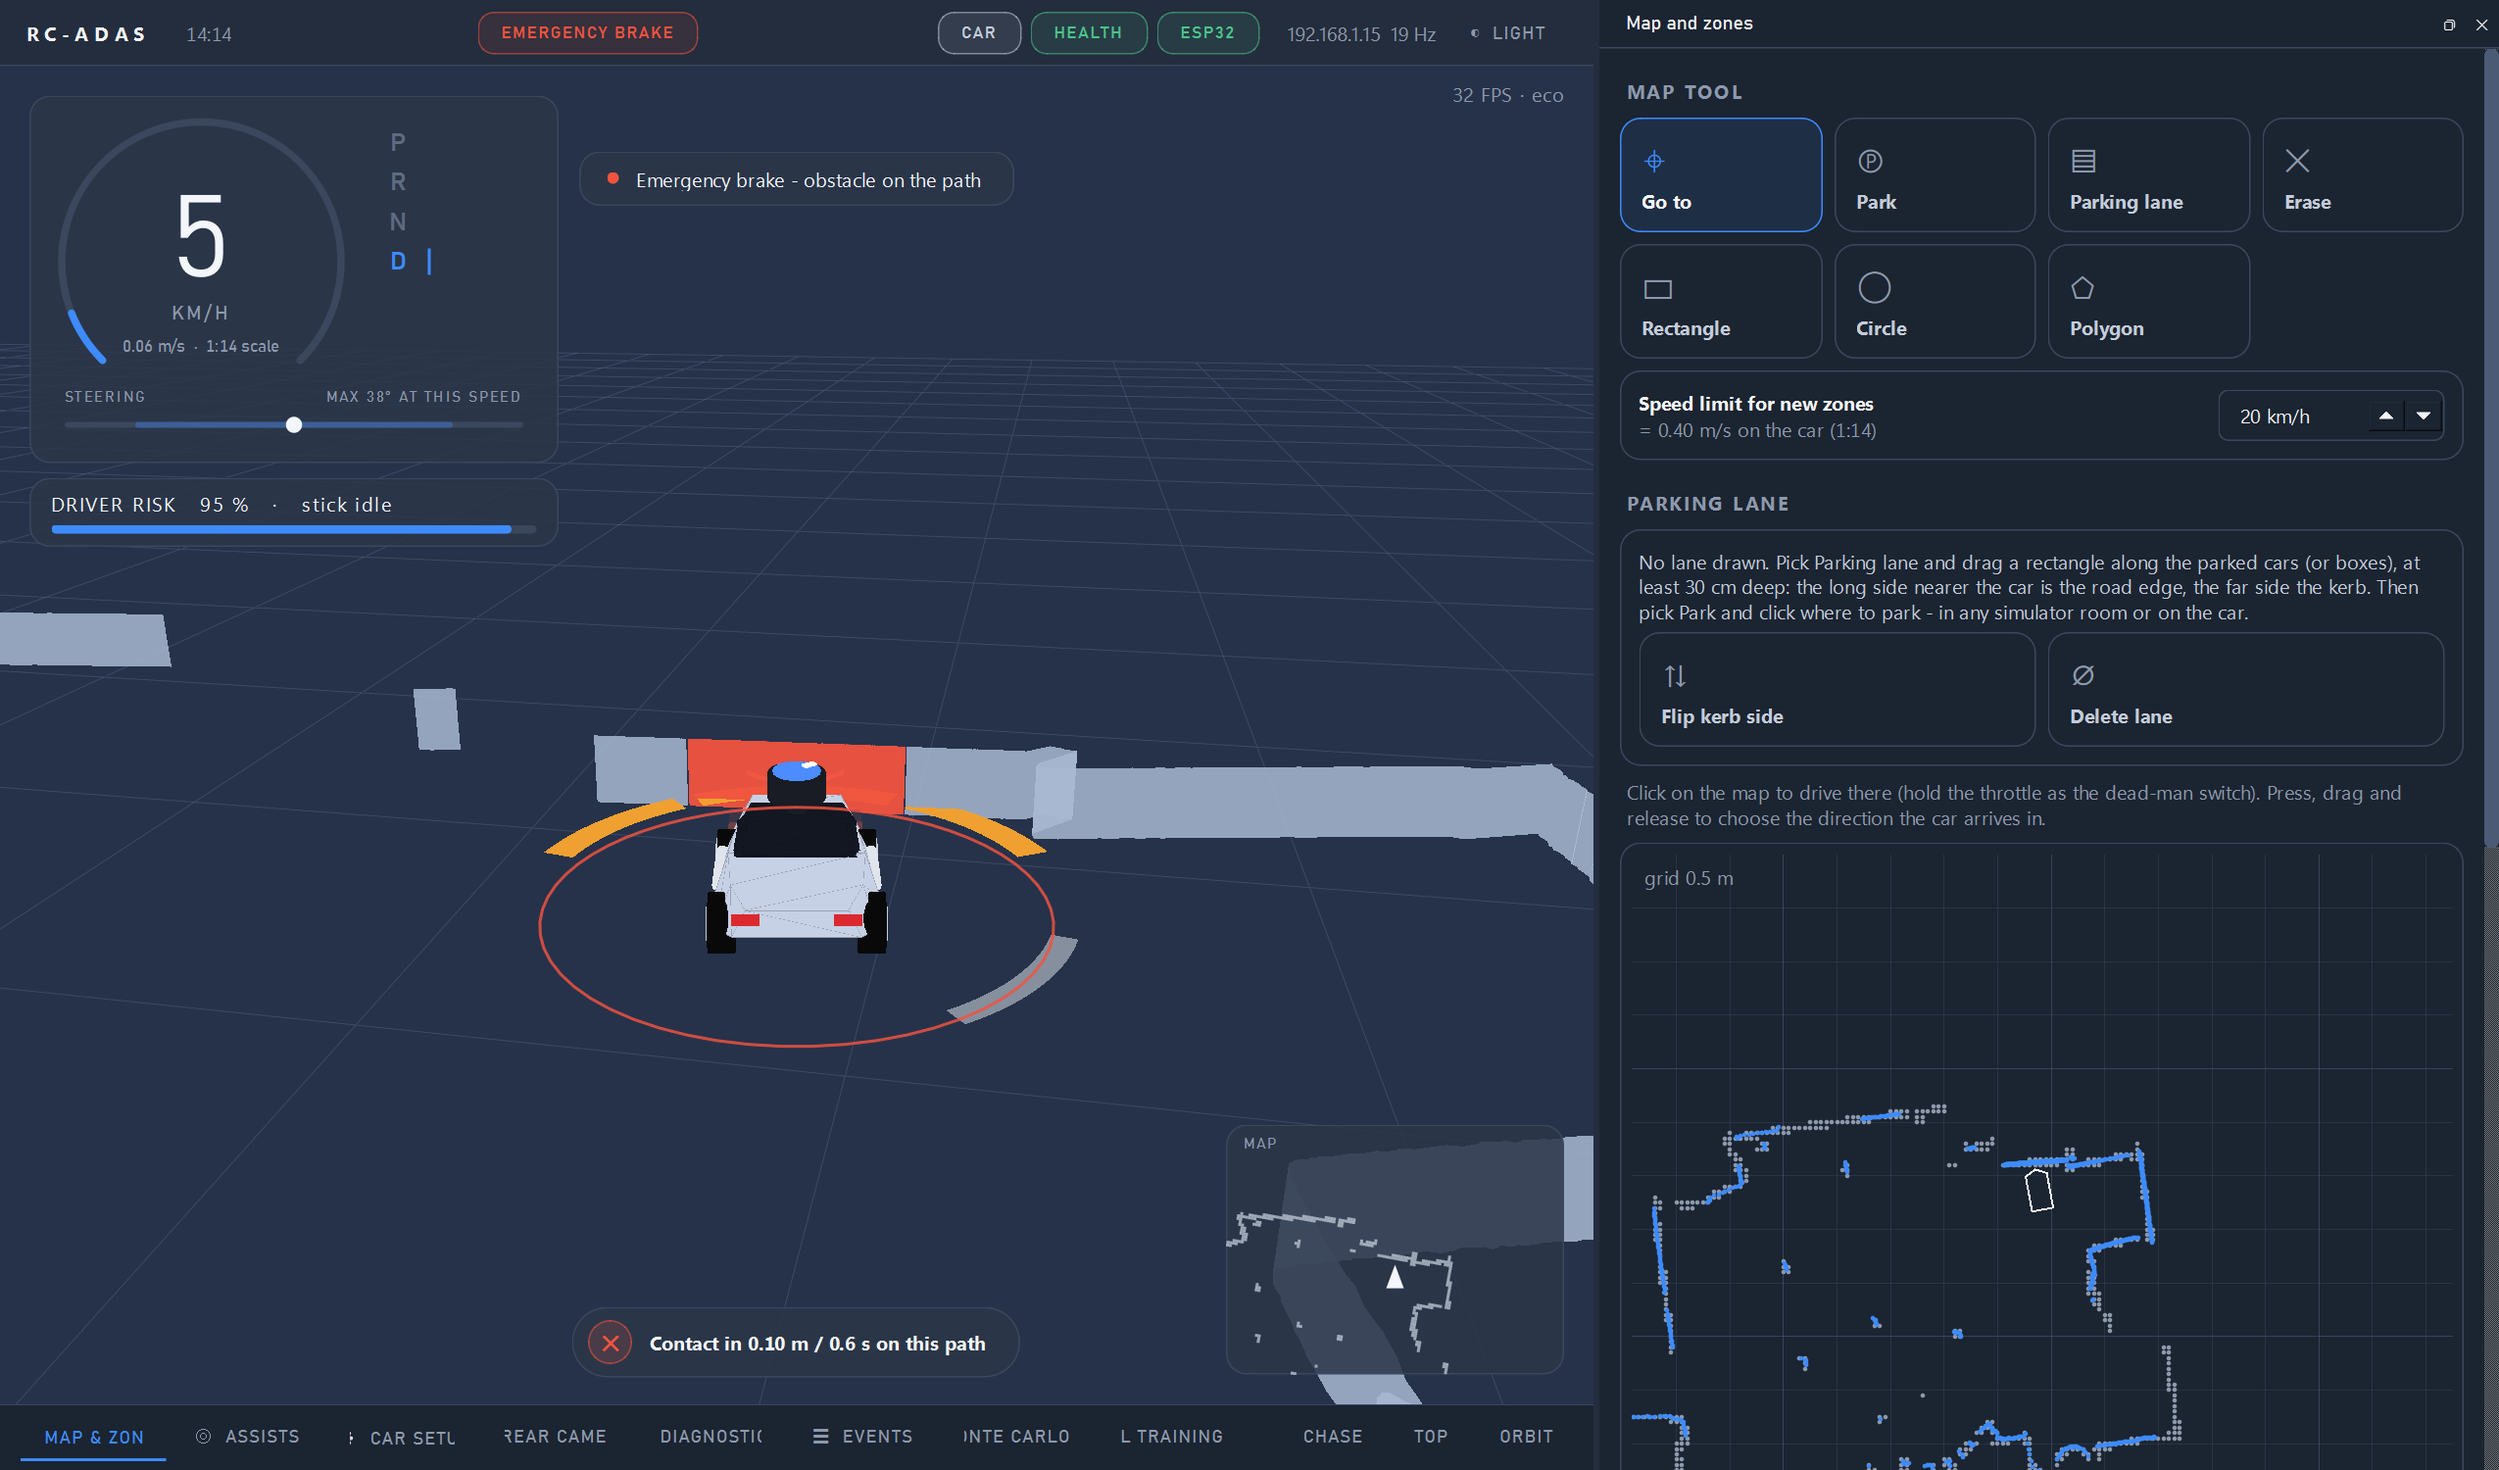
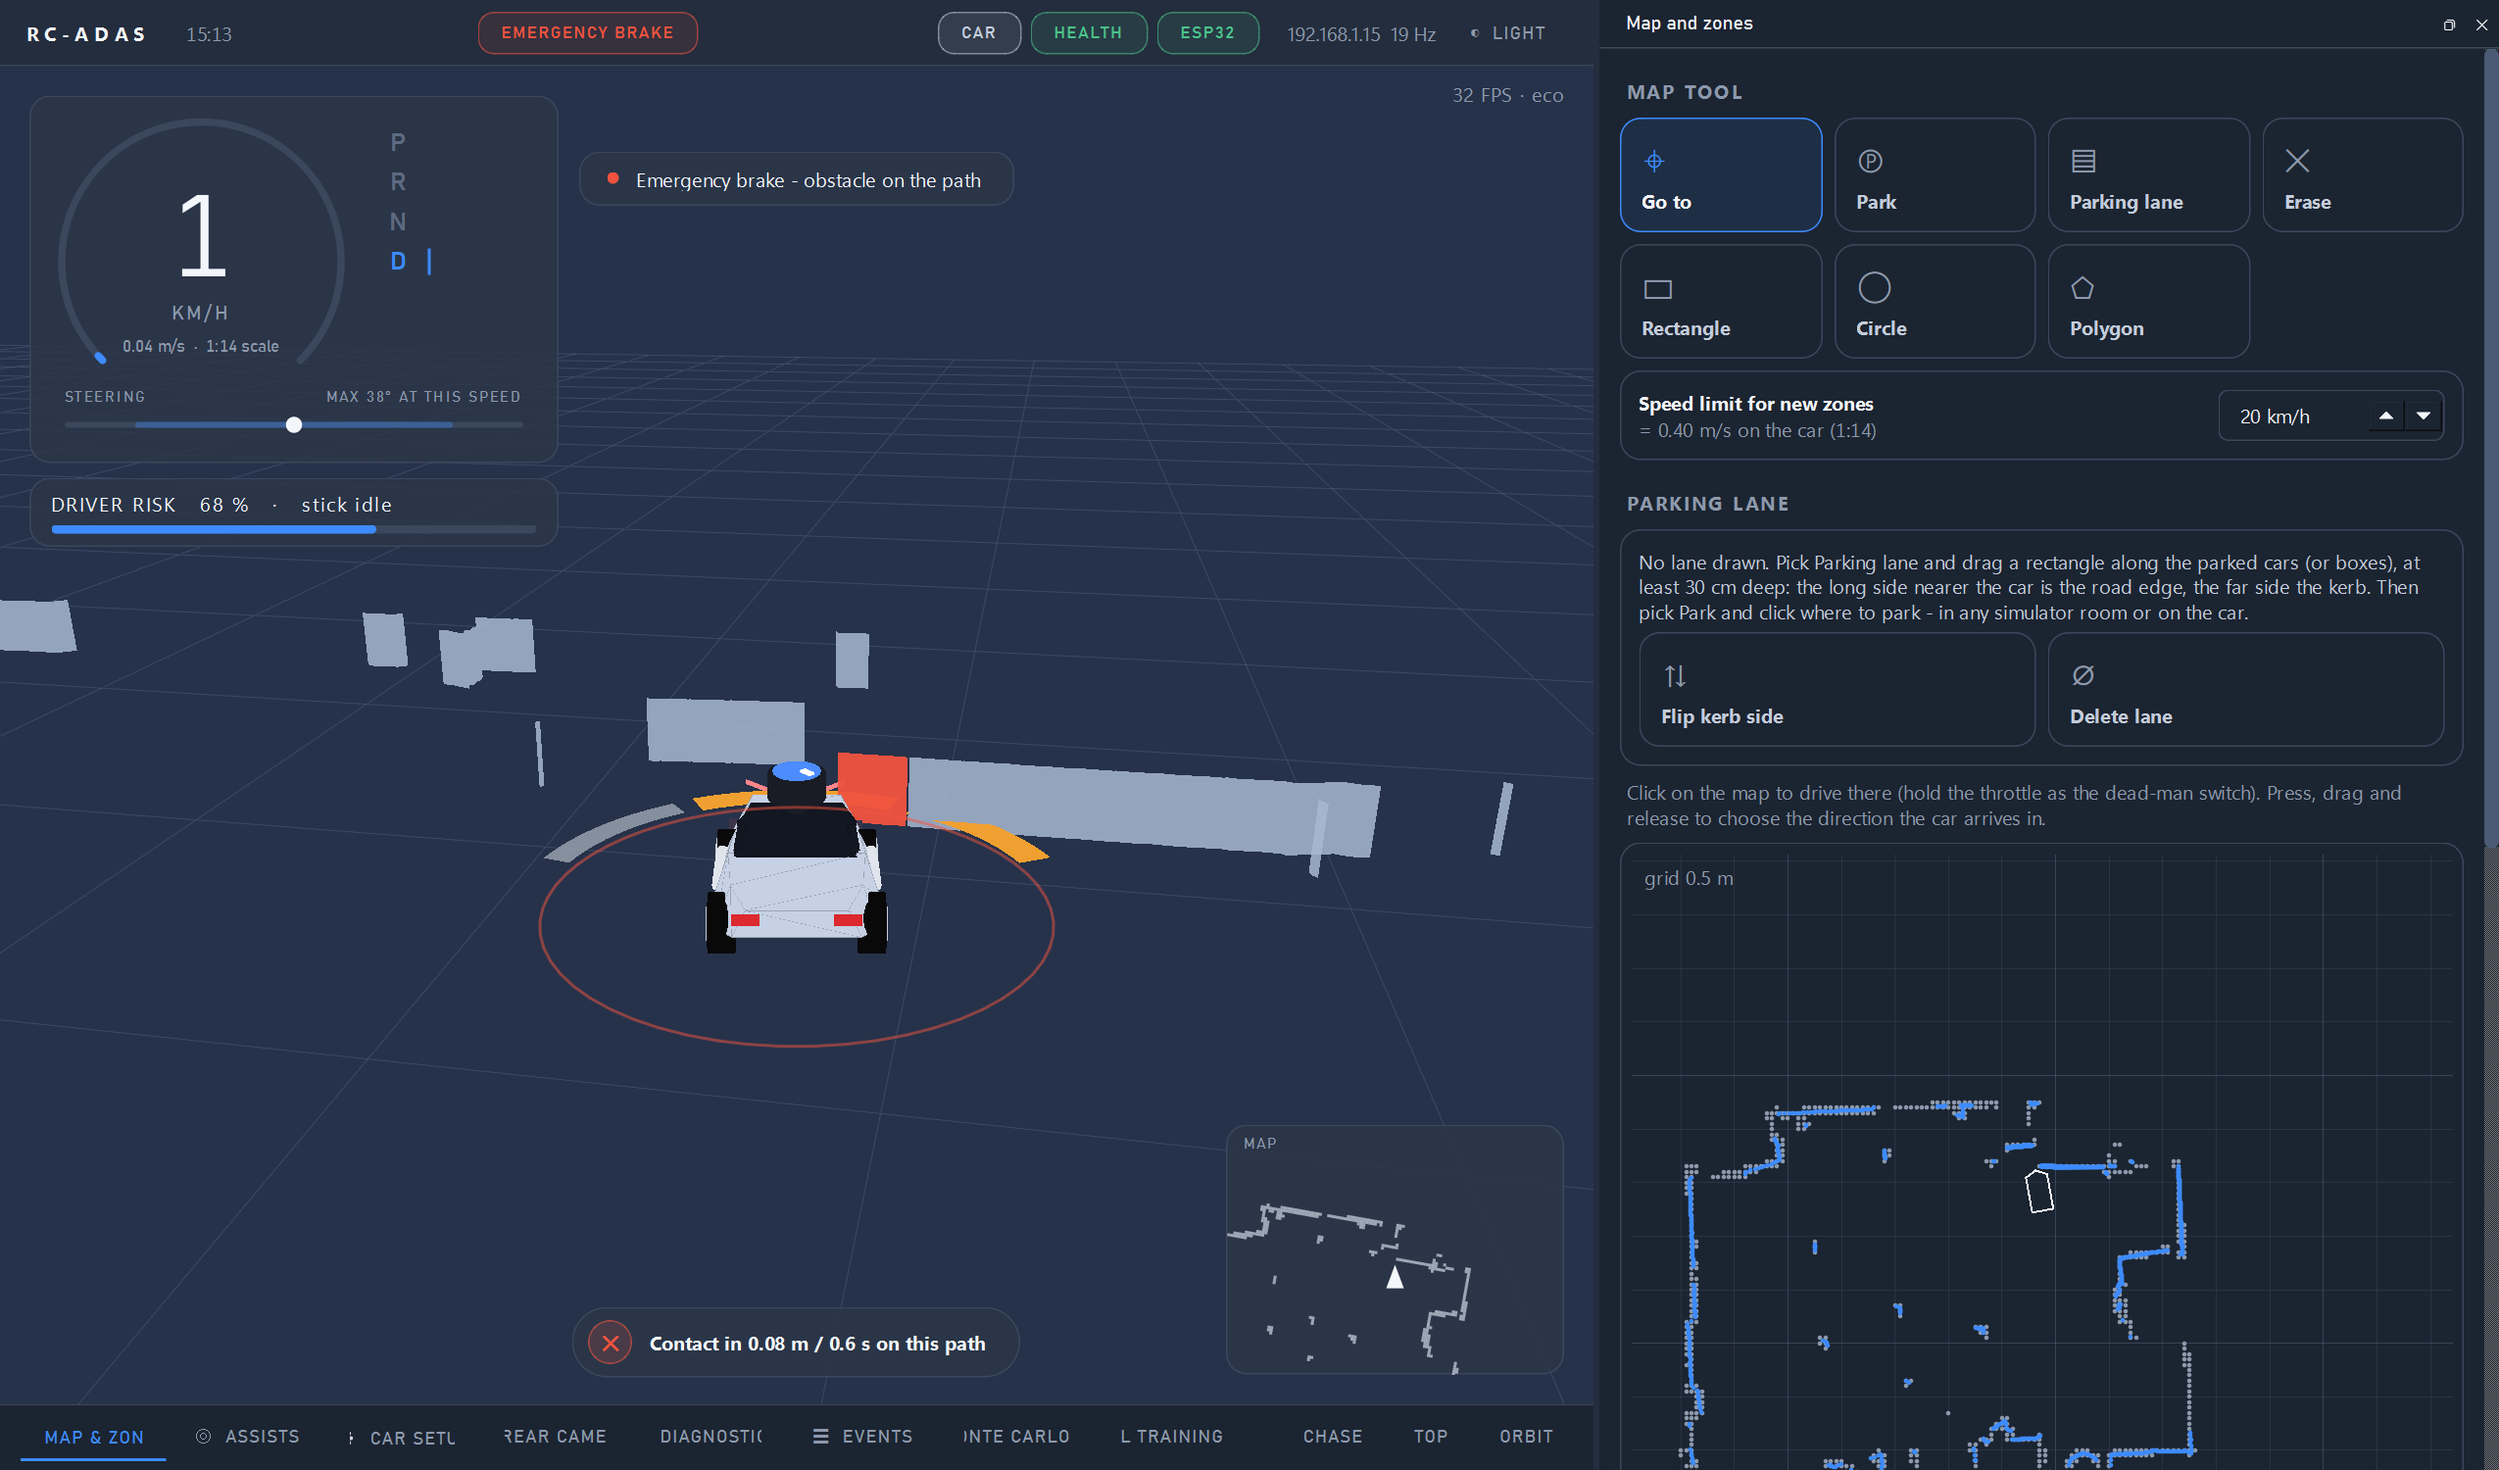
Car checks 14 Oct: gate-only brake test passed (6.8 cm), memory fix deployed

diff --git a/src/adas_project/tools/car_ui_test.py b/src/adas_project/tools/car_ui_test.py
@@ -169,8 +169,10 @@ SCENARIOS = {"idle": idle, "steer": steer, "brake": brake, "reverse": reverse}
 def main():
     ap = argparse.ArgumentParser()
     ap.add_argument("--host", required=True)
+    ap.add_argument("--near", type=float, default=NEAR_M, help="the test's own bumper cut (m)")
     ap.add_argument("names", nargs="*", default=["idle", "steer", "brake", "reverse"])
     a = ap.parse_args()
+    globals()["NEAR_M"] = a.near
     import gui.ev as EV
     os.makedirs(OUT, exist_ok=True)
     EV.ZONES_FILE = os.path.join(OUT, "zones_test.json")      # the user's gui/zones.json is never written

diff --git a/src/adas_project/docs/TODO.md b/src/adas_project/docs/TODO.md
@@ -984,7 +984,10 @@ the car finds the gaps with its LiDAR and parks in the viable part of the strip 
       centres). reverse crawl 1 s ~0.1 m/s ok. brake (throttle 50): crawled 1.13 m at 0.12-0.17 m/s, the relay's gate held the car
       ("holding", dashboard EMERGENCY BRAKE) 8 cm from the wall; the test's 8 cm cut fired in the same tick. Throttle 70 reached
       0.25 m/s within 0.4 s.
-- [ ] AI4. Brake test with the test's own cut lowered (4 cm) so only the gate stops the car; then click-to-go 0.5 m, zone cap.
+- [~] AI4. Brake test with the test's own cut lowered (4 cm) so only the gate stops the car; then click-to-go 0.5 m, zone cap.
+      (14 Oct, with AJ3 deployed: crawl 1.29 m at <= 0.23 m/s, the gate alone braked and held the car 6.8 cm from the wall, test cut
+      not used; reverse ok; steering 32/42 - 70/80 - 108/118. Straight command drifted 0.178 rad (10 deg) over 1.3 m -> steering
+      bias, see AK5. Click-to-go and zone on the car still to do.)
 - [ ] AI5. USB: at boot the Pi overloaded again until the LiDAR-adapter cable / ports were redone (user, 14 Oct).
 
 ## AH. INCIDENT 1 Oct ~00:42 (user): "the controls are delayed and persist for very long after, like a 1 second delay; it just broke my
